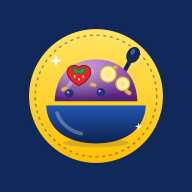
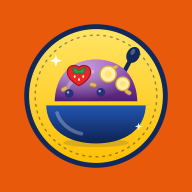
Add files via upload

diff --git a/acai.html b/acai.html
@@ -3,12 +3,12 @@
 <head>
 <meta charset="utf-8">
 <meta name="viewport" content="width=device-width, initial-scale=1, viewport-fit=cover">
-<meta name="theme-color" content="#ffd21f">
+<meta name="theme-color" content="#e8590c">
 <link rel="manifest" href="manifest-loja.webmanifest">
 <title>Monte seu açaí</title>
 <style>
-:root{--bg:#ffd21f;--card:#fff;--ink:#10295a;--mut:#46567d;--line:#10295a;--acc:#d8232a;--acci:#fff;color-scheme:light;box-sizing:border-box;padding-top:env(safe-area-inset-top,0px);padding-bottom:env(safe-area-inset-bottom,0px)}
-@media (prefers-color-scheme:dark){:root{--bg:#0d1d42;--card:#14295c;--ink:#fff3c4;--mut:#b9c3dc;--line:#3a5aa6;--acc:#ff6a5f;--acci:#1a0705;color-scheme:dark}}
+:root{--bg:#fff0e3;--card:#fff;--ink:#2e1708;--mut:#7a5236;--line:#9a3412;--acc:#d9480f;--acci:#fff;color-scheme:light;box-sizing:border-box;padding-top:env(safe-area-inset-top,0px);padding-bottom:env(safe-area-inset-bottom,0px)}
+@media (prefers-color-scheme:dark){:root{--bg:#1c0f08;--card:#2b1810;--ink:#ffe8d6;--mut:#d9b8a0;--line:#c2410c;--acc:#ff8a3d;--acci:#2a1204;color-scheme:dark}}
 *,*::before,*::after{box-sizing:inherit}
 [hidden]{display:none!important}
 body{margin:0;background:var(--bg);color:var(--ink);font:16px/1.45 system-ui,-apple-system,"Segoe UI",Roboto,sans-serif}
@@ -77,14 +77,15 @@ main{padding-bottom:110px}
 <div id="msg" role="status"></div>
 <div id="out" class="card" hidden>Entre na sua conta pela <a href="loja.html">loja</a> e volte aqui para montar o açaí.</div>
 <div id="app" hidden>
+<div id="favw" class="card" hidden></div>
 <h2>Escolha o açaí</h2>
 <div id="bases"></div>
 <div id="ingw" class="card" hidden>
 <div class="sh"><img id="shimg" alt="" hidden style="width:50px;height:50px;border-radius:12px;object-fit:cover;flex:none"><b id="shname" style="flex:1"></b><button class="x" id="shx" type="button" aria-label="Fechar">×</button></div>
 <div id="ingb"><b>Escolha os ingredientes</b><div id="ings" class="chips2"></div><b id="cth" style="display:block;margin-top:14px" hidden>Escolha a cobertura</b><div id="cobs" class="chips2"></div></div>
-<div class="shf"><button class="pri" id="addc" type="button">Adicionar ao pedido</button></div>
+<div class="shf"><label style="display:flex;align-items:center;gap:8px;font-weight:700;font-size:14px;margin-bottom:6px"><input type="checkbox" id="favck" style="width:20px;height:20px"> Salvar como meu açaí de sempre</label><button class="pri" id="addc" type="button">Adicionar ao pedido</button></div>
 </div>
-<div id="cartw" class="card" hidden><div class="sh"><b>Seu pedido</b><button class="x" id="cartx" type="button" aria-label="Fechar">×</button></div><div id="cups"></div><div style="display:flex;gap:8px;margin-top:8px"><input id="cup2" placeholder="Cupom de desconto" autocomplete="off" autocapitalize="characters" style="flex:1;min-width:0;border:2px solid var(--line);border-radius:12px;padding:11px 14px;background:var(--card);color:var(--ink);font:inherit"><button id="cupb2" class="sec" type="button" style="width:auto;margin-top:0;padding:0 16px">Aplicar</button></div><select id="ret2" style="width:100%;margin-top:8px;border:2px solid var(--line);border-radius:12px;padding:11px 14px;background:var(--card);color:var(--ink);font:inherit"><option value="">Retirada: o quanto antes</option><option value="Em 15 minutos">Em 15 minutos</option><option value="Em 30 minutos">Em 30 minutos</option><option value="Em 1 hora">Em 1 hora</option></select><input id="obs2" maxlength="140" placeholder="Observação (opcional): sem granola, calda à parte" autocomplete="off" style="width:100%;margin-top:8px;border:2px solid var(--line);border-radius:12px;padding:11px 14px;background:var(--card);color:var(--ink);font:inherit"><button class="pri" id="go"></button><div class="mut" style="margin-top:8px">O pagamento é por Pix. O código aparece logo depois de enviar o pedido.</div></div>
+<div id="cartw" class="card" hidden><div class="sh"><b>Seu pedido</b><button class="x" id="cartx" type="button" aria-label="Fechar">×</button></div><div id="cups"></div><div style="display:flex;gap:8px;margin-top:8px"><input id="cup2" placeholder="Cupom de desconto" autocomplete="off" autocapitalize="characters" style="flex:1;min-width:0;border:2px solid var(--line);border-radius:12px;padding:11px 14px;background:var(--card);color:var(--ink);font:inherit"><button id="cupb2" class="sec" type="button" style="width:auto;margin-top:0;padding:0 16px">Aplicar</button></div><select id="ret2" style="width:100%;margin-top:8px;border:2px solid var(--line);border-radius:12px;padding:11px 14px;background:var(--card);color:var(--ink);font:inherit"><option value="">Retirada: o quanto antes</option><option value="Em 15 minutos">Em 15 minutos</option><option value="Em 30 minutos">Em 30 minutos</option><option value="Em 1 hora">Em 1 hora</option><option value="agendar">Agendar para outro dia ou horário…</option></select><input id="retdt2" type="datetime-local" hidden style="width:100%;margin-top:8px;border:2px solid var(--line);border-radius:12px;padding:11px 14px;background:var(--card);color:var(--ink);font:inherit"><input id="obs2" maxlength="140" placeholder="Observação (opcional): sem granola, calda à parte" autocomplete="off" style="width:100%;margin-top:8px;border:2px solid var(--line);border-radius:12px;padding:11px 14px;background:var(--card);color:var(--ink);font:inherit"><button class="pri" id="go"></button><div class="mut" style="margin-top:8px">O pagamento é por Pix. O código aparece logo depois de enviar o pedido.</div></div>
 <h2>Pedidos em andamento</h2>
 <div id="orders"></div>
 <button class="sec" id="nt" hidden>Ativar avisos neste celular</button>
@@ -116,6 +117,10 @@ function clearStore(items){
   try{const d=parent.document,b=d.createElement('button');b.dataset.a='cm';b.hidden=true;d.body.appendChild(b);
     items.forEach(i=>{b.dataset.id=i.p;for(let k=0;k<i.q;k++)b.click()});b.remove()}catch(e){}
 }
+const retInfo=()=>{let v=$('#ret2').value,d=$('#retdt2').value;if(!v){try{v=parent.document.getElementById('ret').value;d=parent.document.getElementById('retdt').value}catch(e){}}if(v!=='agendar')return {txt:v||'',ts:0};if(!d)return {err:'Escolha o dia e a hora do agendamento.'};const t=Date.parse(d);if(!(t>Date.now()+10*60000))return {err:'Escolha um horário daqui a pelo menos 10 minutos.'};if(t>Date.now()+7*864e5)return {err:'Agende com até 7 dias de antecedência.'};return {txt:'Agendado para '+new Date(t).toLocaleString('pt-BR',{weekday:'short',day:'2-digit',month:'2-digit',hour:'2-digit',minute:'2-digit'}),ts:t}};
+const FK=()=>'fav_'+(me?me.uid:'x');
+const getFav=()=>{try{return JSON.parse(localStorage.getItem(FK())||'null')}catch(e){return null}};
+const setFav=f=>{try{f?localStorage.setItem(FK(),JSON.stringify(f)):localStorage.removeItem(FK())}catch(e){}};
 const cupDesc=t=>{try{const c=parent.__cupom;if(!c)return 0;return Math.min(t,Math.round((c.pct?t*c.pct/100:c.val)*100)/100)}catch(e){return 0}};
 const cupCode=d=>{try{return d>0&&parent.__cupom?parent.__cupom.code:''}catch(e){return ''}};
 function goPed(){try{const t=parent.document.querySelector('#tabs button[data-v="ped"]');if(t)t.click()}catch(e){}}
@@ -142,11 +147,15 @@ function pixCode(o){
 }
 const hm=()=>{const p=new Intl.DateTimeFormat('en-GB',{timeZone:'America/Sao_Paulo',hour:'2-digit',minute:'2-digit',hour12:false}).formatToParts(new Date()),g=t=>+p.find(x=>x.type===t).value;return (g('hour')%24)*60+g('minute')};
 const mins=s=>{const [h,m]=String(s||'0:0').split(':');return +h*60+(+m||0)};
-const aberta=c=>{if(c.open===false)return false;if(!c.auto)return true;const n=hm(),a=mins(c.from||'07:00'),f=mins(c.to||'23:00');return a<=f?(n>=a&&n<f):(n>=a||n<f)};
+const aberta=c=>{if(c.open===false)return false;try{if((parent.__lotado||0)>Date.now())return false}catch(e){}if(!c.auto)return true;const n=hm(),a=mins(c.from||'07:00'),f=mins(c.to||'23:00');return a<=f?(n>=a&&n<f):(n>=a||n<f)};
 const ntfy=(t,m)=>{if(cfg.ntfy)fetch('https://ntfy.sh/'+encodeURIComponent(cfg.ntfy)+'/publish?title='+encodeURIComponent(t)+'&priority=high&tags=shopping_cart&message='+encodeURIComponent(m),{mode:'no-cors'}).catch(()=>{})};
 function render(){
   const B=bases(),I=ings(),C=cobs();
   $('#bases').innerHTML=B.length?B.map(p=>`<button class="base" data-b="${p.id}" aria-pressed="${base===p.id}"${p.qty<=0?' disabled':''}>${p.img?`<img class="bi" src="${p.img}" alt="">`:`<span class="bi ph">${esc(p.name.slice(0,1).toUpperCase())}</span>`}<span>${esc(p.name)}</span><span>${p.qty<=0?'Esgotado':R(p.price)}</span></button>`).join(''):'<p class="mut">Os açaís ainda não foram cadastrados na loja.</p>';
+  {const f=getFav(),w=$('#favw');
+    if(f&&P(f.b)){const nomes=f.i.map(id=>P(id)?P(id).name:null).filter(Boolean);w.hidden=false;
+      w.innerHTML=`<div class="mut">Meu açaí de sempre</div><b>${esc(P(f.b).name)}</b><div class="mut">${nomes.length?nomes.map(esc).join(', '):'Sem ingredientes'}</div><div style="display:flex;gap:8px;margin-top:10px"><button class="pri" id="favadd" type="button" style="flex:1;margin-top:0">Pedir agora · ${R(cupTot({b:f.b,i:f.i.filter(id=>P(id))}))}</button><button class="sec" id="favrm" type="button" style="width:auto;margin-top:0;padding:0 16px">Remover</button></div>`}
+    else w.hidden=true}
   $('#ingw').hidden=!base;if(base&&P(base)){$('#shname').textContent=P(base).name+' · '+R(P(base).price);{const im=$('#shimg');if(P(base).img){im.src=P(base).img;im.hidden=false}else{im.hidden=true}}$('#addc').textContent='Adicionar ao pedido · '+R(cupTot({b:base,i:[...pick]}))}
   const opt=p=>`<label class="chip${pick.has(p.id)?' on':''}${p.qty<=0?' off':''}${p.img?' hasimg':''}">${p.img?`<img class="ci" src="${p.img}" alt="">`:''}<input type="checkbox" data-i="${p.id}"${pick.has(p.id)?' checked':''}${p.qty<=0?' disabled':''}><span>${esc(p.name)}</span><span class="mut">${p.qty<=0?'Esgotado':p.price>0?'Mais '+R(p.price):'Sem custo'}</span></label>`;
   $('#ings').innerHTML=I.map(opt).join('')||'<p class="mut">Nenhum ingrediente cadastrado ainda.</p>';
@@ -179,11 +188,13 @@ async function order(fromParent){
   cups.forEach((c,k)=>{const s=multi?' (copo '+(k+1)+')':'',b=P(c.b);items.push({p:b.id,n:b.name+s,q:1,pr:b.price});c.i.forEach(id=>{const g=P(id);items.push({p:id,n:'+ '+g.name+s,q:1,pr:g.price})})});
   store.forEach(i=>items.push(i));
   const total0=Math.round(items.reduce((s,i)=>s+i.pr*i.q,0)*100)/100,dsc=cupDesc(total0),total=Math.round((total0-dsc)*100)/100,cp=cupCode(dsc);
-  const code=String(100+crypto.getRandomValues(new Uint32Array(1))[0]%900),obs=(($('#obs2').value||'').trim()||(()=>{try{return parent.document.getElementById('obs').value.trim()}catch(e){return ''}})()).slice(0,140),ret=$('#ret2').value||(()=>{try{return parent.document.getElementById('ret').value}catch(e){return ''}})();
-  const ref=await addDoc(collection(db,'orders'),{uid:me.uid,name,items,total,pay:'pix',st:'novo',paid:false,code,obs,ret,cupom:cp,desc:dsc,t:Date.now()});
+  const code=String(100+crypto.getRandomValues(new Uint32Array(1))[0]%900),obs=(($('#obs2').value||'').trim()||(()=>{try{return parent.document.getElementById('obs').value.trim()}catch(e){return ''}})()).slice(0,140),ri=retInfo();
+  if(ri.err){msg(ri.err);return}
+  const ret=ri.txt;
+  const ref=await addDoc(collection(db,'orders'),{uid:me.uid,name,items,total,pay:'pix',st:'novo',paid:false,code,obs,ret,agenda:ri.ts,cupom:cp,desc:dsc,t:Date.now()});
   ntfy('Novo pedido de açaí','O cliente '+name+' fez um pedido de '+R(total)+'. Abra o app para ver.');
   let ok=false;try{await navigator.clipboard.writeText(pixCode({id:ref.id,total}));ok=true}catch(e){}
-  cups=[];base=null;pick=new Set();clearStore(store);$('#obs2').value='';$('#ret2').value='';$('#cup2').value='';try{parent.document.getElementById('obs').value='';parent.document.getElementById('ret').value='';parent.document.getElementById('cupom').value='';parent.__cupom=null}catch(e){}render();if(fromParent)goPed();
+  cups=[];base=null;pick=new Set();clearStore(store);$('#obs2').value='';$('#ret2').value='';$('#retdt2').value='';$('#retdt2').hidden=true;$('#cup2').value='';try{parent.document.getElementById('obs').value='';parent.document.getElementById('ret').value='';parent.document.getElementById('retdt').value='';parent.document.getElementById('retdt').hidden=true;parent.document.getElementById('cupom').value='';parent.__cupom=null}catch(e){}render();if(fromParent)goPed();
   msg((ok?'Pedido enviado! Código Pix copiado: cole no app do banco. ':'Pedido enviado! Copie o código Pix abaixo. ')+'Seu código de retirada: '+code+'. Guarde-o.');
 }
 document.addEventListener('click',async e=>{
@@ -195,8 +206,17 @@ document.addEventListener('click',async e=>{
       storeItems().forEach(i=>u[i.p]=(u[i.p]||0)+i.q);
       const bad=Object.keys(u).find(id=>!P(id)||u[id]>P(id).qty);
       if(bad){msg('Sem estoque suficiente de '+(P(bad)?P(bad).name:'um item')+'.');return}
-      cups.push(c);base=null;pick=new Set();render();msg('Açaí adicionado ao pedido.')}
+      const sv=$('#favck').checked;cups.push(c);if(sv)setFav({b:c.b,i:c.i});$('#favck').checked=false;base=null;pick=new Set();render();msg('Açaí adicionado ao pedido.'+(sv?' Salvo como meu açaí de sempre.':''))}
     else if(b.dataset.r){cups.splice(+b.dataset.r,1);render()}
+    else if(b.id==='favadd'){
+      const f=getFav();if(!f)return;
+      if(!P(f.b)||P(f.b).qty<=0){msg('Esse açaí não está disponível agora.');return}
+      const ing=f.i.filter(id=>P(id)&&P(id).qty>0),lost=f.i.length-ing.length,c={b:f.b,i:ing},u={};
+      [...cups,c].forEach(x=>[x.b,...x.i].forEach(id=>u[id]=(u[id]||0)+1));storeItems().forEach(i=>u[i.p]=(u[i.p]||0)+i.q);
+      const bad=Object.keys(u).find(id=>!P(id)||u[id]>P(id).qty);
+      if(bad){msg('Sem estoque suficiente de '+(P(bad)?P(bad).name:'um item')+'.');return}
+      cups.push(c);render();msg('Açaí adicionado ao pedido.'+(lost?' '+lost+(lost==1?' item sem estoque ficou de fora.':' itens sem estoque ficaram de fora.'):''))}
+    else if(b.id==='favrm'){setFav(null);render();msg('Favorito removido.')}
     else if(b.id==='shx'){base=null;pick=new Set();render()}
     else if(b.id==='cartx'){cartOpen=false;render()}
     else if(b.id==='bar2'){cartOpen=true;render()}
@@ -226,6 +246,7 @@ onAuthStateChanged(auth,async u=>{
 });
 if('serviceWorker' in navigator)addEventListener('load',()=>navigator.serviceWorker.register('sw.js').catch(()=>{}));
 document.addEventListener('click',e=>{if(e.target.id==='scrim'){base=null;pick=new Set();cartOpen=false;render()}});
+document.addEventListener('change',e=>{if(e.target.id==='ret2'){const d=$('#retdt2');d.hidden=e.target.value!=='agendar';const m=new Date(Date.now()+10*60000-new Date().getTimezoneOffset()*60000);d.min=m.toISOString().slice(0,16)}});
 window.acaiCupsCount=()=>cups.length;
 window.acaiInfo=()=>({n:cups.length,total:cups.reduce((s,c)=>s+cupTot(c),0)});
 window.acaiOrder=()=>order(true).catch(erro);

diff --git a/loja.html b/loja.html
@@ -3,7 +3,7 @@
 <head>
 <meta charset="utf-8">
 <meta name="viewport" content="width=device-width, initial-scale=1, viewport-fit=cover">
-<meta name="theme-color" content="#ffd21f">
+<meta name="theme-color" content="#e8590c">
 <meta name="mobile-web-app-capable" content="yes">
 <meta name="apple-mobile-web-app-capable" content="yes">
 <link rel="manifest" href="manifest-loja.webmanifest">
@@ -13,8 +13,8 @@
 <title>Loja Andrea</title>
 <script src="acai-tab.js" defer></script>
 <style>
-:root{--bg:#ffd21f;--card:#fff;--ink:#10295a;--mut:#46567d;--line:#10295a;--btn:#10295a;--btni:#fff;--acc:#d8232a;--acci:#fff;--ok:#1b7a4a;--wn:#b3201f;--soft:#fff2b0;color-scheme:light;box-sizing:border-box;padding-top:env(safe-area-inset-top,0px);padding-bottom:env(safe-area-inset-bottom,0px)}
-@media (prefers-color-scheme:dark){:root{--bg:#0d1d42;--card:#14295c;--ink:#fff3c4;--mut:#b9c3dc;--line:#3a5aa6;--btn:#ffd21f;--btni:#10295a;--acc:#ff6a5f;--acci:#1a0705;--ok:#5fd39a;--wn:#ff8a7e;--soft:#1d3877;color-scheme:dark}}
+:root{--bg:#fff0e3;--card:#fff;--ink:#2e1708;--mut:#7a5236;--line:#9a3412;--btn:#9a3412;--btni:#fff;--acc:#d9480f;--acci:#fff;--ok:#1b7a4a;--wn:#b3201f;--soft:#ffe0c2;color-scheme:light;box-sizing:border-box;padding-top:env(safe-area-inset-top,0px);padding-bottom:env(safe-area-inset-bottom,0px)}
+@media (prefers-color-scheme:dark){:root{--bg:#1c0f08;--card:#2b1810;--ink:#ffe8d6;--mut:#d9b8a0;--line:#c2410c;--btn:#ff922b;--btni:#2a1204;--acc:#ff8a3d;--acci:#2a1204;--ok:#5fd39a;--wn:#ff8a7e;--soft:#3a2012;color-scheme:dark}}
 *,*::before,*::after{box-sizing:inherit}
 [hidden]{display:none!important}
 body{margin:0;background:var(--bg);color:var(--ink);font:16px/1.45 Figtree,system-ui,-apple-system,"Segoe UI",Roboto,sans-serif}
@@ -117,6 +117,14 @@ h1{font-size:28px}.sub{font-size:13px;margin-top:4px}
 .codigo{display:flex;flex-direction:column;align-items:center;gap:2px;margin:8px 0;padding:10px;border:2px dashed var(--line);border-radius:12px;background:var(--soft)}
 .codigo b{font:400 40px/1 "Alfa Slab One",serif;letter-spacing:6px;color:var(--ink)}
 .codigo span,.codigo small{font-size:12px;font-weight:800;color:var(--mut)}
+/* tema laranja */
+header{max-width:none;margin:0;padding-top:14px;padding-bottom:20px;padding-left:max(12px,calc((100vw - 960px)/2 + 12px));padding-right:max(12px,calc((100vw - 960px)/2 + 12px));background:linear-gradient(135deg,#e8590c,#f76707);border-radius:0 0 28px 28px;box-shadow:0 10px 28px rgba(154,52,18,.28)}
+header h1,header .sub{color:#fff}
+header #who{color:#ffe8d6}
+header .lnk{color:#fff}
+main{padding-top:14px}
+.caderno{border-left-color:var(--acc)}.caderno .big{color:var(--acc)}
+@media (prefers-color-scheme:dark){header{background:linear-gradient(135deg,#a3380a,#c2410c)}}
 </style>
 </head>
 <body>
@@ -148,7 +156,8 @@ h1{font-size:28px}.sub{font-size:13px;margin-top:4px}
 <div id="scrim" data-a="sheet" hidden></div>
 <div id="cart" role="dialog" aria-label="Seu pedido"><div class="sh"><span>Seu pedido</span><button class="x" data-a="sheet" aria-label="Fechar">×</button></div><div id="citems"></div>
 <label>Observação (opcional)<input id="obs" maxlength="140" placeholder="Ex.: sem granola, calda à parte" autocomplete="off"></label>
-<label>Retirada<select id="ret"><option value="">O quanto antes</option><option value="Em 15 minutos">Em 15 minutos</option><option value="Em 30 minutos">Em 30 minutos</option><option value="Em 1 hora">Em 1 hora</option></select></label>
+<label>Retirada<select id="ret"><option value="">O quanto antes</option><option value="Em 15 minutos">Em 15 minutos</option><option value="Em 30 minutos">Em 30 minutos</option><option value="Em 1 hora">Em 1 hora</option><option value="agendar">Agendar para outro dia ou horário…</option></select></label>
+<input id="retdt" type="datetime-local" hidden>
 <label>Pagamento<select id="pay"><option value="pix">Pix</option><option value="din">Dinheiro na retirada</option><option value="car">Cartão na retirada</option><option value="fia" id="ofia">Fiado</option></select></label>
 <input id="trocopara" inputmode="decimal" placeholder="Troco para quanto? (opcional)" autocomplete="off" hidden>
 <div class="mut" id="pixnote">Depois de enviar o pedido, o código Pix aparece em Meus pedidos.</div>
@@ -165,6 +174,7 @@ const esc=s=>String(s).replace(/[&<>"]/g,c=>({'&':'&amp;','<':'&lt;','>':'&gt;',
 const ST={novo:'Aguardando a loja',sep:'Separado para você',pronto:'Pronto para retirar',ent:'Entregue',canc:'Cancelado'};
 let me=null,cust={},cfg={},prods=[],orders=[],cart={},unsubs=[],healing=false,ip=null,catF='',sheet=false,tab='loja',loaded=false,view=(()=>{try{return localStorage.getItem('lv')||'grade'}catch(e){return 'grade'}})();
 const P=id=>prods.find(p=>p.id===id);
+const retInfo=()=>{const v=$('#ret').value,d=$('#retdt').value;if(v!=='agendar')return {txt:v,ts:0};if(!d)return {err:'Escolha o dia e a hora do agendamento.'};const t=Date.parse(d);if(!(t>Date.now()+10*60000))return {err:'Escolha um horário daqui a pelo menos 10 minutos.'};if(t>Date.now()+7*864e5)return {err:'Agende com até 7 dias de antecedência.'};return {txt:'Agendado para '+new Date(t).toLocaleString('pt-BR',{weekday:'short',day:'2-digit',month:'2-digit',hour:'2-digit',minute:'2-digit'}),ts:t}};
 const desc=t=>{const c=window.__cupom;if(!c)return 0;return Math.min(t,Math.round((c.pct?t*c.pct/100:c.val)*100)/100)};
 function msg(t){const m=$('#msg');m.textContent=t;clearTimeout(msg.t);msg.t=setTimeout(()=>m.textContent='',6000)}
 const erro=e=>msg(({'auth/invalid-credential':'E-mail ou senha incorretos.','auth/email-already-in-use':'Esse e-mail já tem conta. Toque em Entrar.','auth/weak-password':'A senha precisa ter 6 ou mais caracteres.','auth/configuration-not-found':'O login por e-mail ainda não foi ativado no Firebase.','auth/operation-not-allowed':'O login por e-mail e senha não está ativado no Firebase.','auth/network-request-failed':'Sem conexão com a internet.','auth/too-many-requests':'Muitas tentativas. Espere um pouco e tente de novo.','auth/invalid-email':'E-mail inválido.','permission-denied':'Sem permissão para essa ação.'})[e.code]||'Erro: '+(e.code||e.message));
@@ -188,7 +198,7 @@ function pixCode(o){
 }
 const hm=()=>{const p=new Intl.DateTimeFormat('en-GB',{timeZone:'America/Sao_Paulo',hour:'2-digit',minute:'2-digit',hour12:false}).formatToParts(new Date()),g=t=>+p.find(x=>x.type===t).value;return (g('hour')%24)*60+g('minute')};
 const mins=s=>{const [h,m]=String(s||'0:0').split(':');return +h*60+(+m||0)};
-const aberta=c=>{if(c.open===false)return false;if(!c.auto)return true;const n=hm(),a=mins(c.from||'07:00'),f=mins(c.to||'23:00');return a<=f?(n>=a&&n<f):(n>=a||n<f)};
+const aberta=c=>{if(c.open===false)return false;if((window.__lotado||0)>Date.now())return false;if(!c.auto)return true;const n=hm(),a=mins(c.from||'07:00'),f=mins(c.to||'23:00');return a<=f?(n>=a&&n<f):(n>=a||n<f)};
 const PR=v=>{const [i,c]=(+v||0).toFixed(2).split('.');return `<span class="price" aria-label="${R(v)}"><span class="rs">R$</span><span class="pi">${(+i).toLocaleString('pt-BR')}</span><span class="pc">,${c}</span></span>`};
 function ocard(o){
   const pix=o.pay==='pix'&&!o.paid&&o.st!=='canc';
@@ -203,7 +213,7 @@ function render(){
   const cs=[...new Set(prods.map(p=>p.cat).filter(Boolean))].sort((a,b)=>a.localeCompare(b,'pt-BR'));if(catF&&!cs.includes(catF))catF='';
   $('#cats').innerHTML=cs.length?['',...cs].map(c=>`<button data-a="cat" data-v="${esc(c)}" aria-pressed="${c===catF}">${c?esc(c):'Todas'}</button>`).join(''):'';
   $('#pixnote').hidden=$('#pay').value!=='pix';
-  const cl=$('#closed');cl.hidden=open;if(!open)cl.textContent=cfg.open===false?'A loja não está recebendo pedidos agora. Volte mais tarde.':'Estamos fechados agora. Abrimos às '+(cfg.from||'07:00')+'.';
+  const cl=$('#closed');cl.hidden=open;if(!open)cl.textContent=(window.__lotado||0)>Date.now()?'Muitos pedidos no momento! Voltamos a receber pedidos às '+new Date(window.__lotado).toLocaleTimeString('pt-BR',{hour:'2-digit',minute:'2-digit'})+'.':cfg.open===false?'A loja não está recebendo pedidos agora. Volte mais tarde.':'Estamos fechados agora. Abrimos às '+(cfg.from||'07:00')+'.';
   const f=$('#busca').value.trim().toLowerCase(),ids=Object.keys(cart).filter(P),tot=ids.reduce((s,id)=>s+P(id).price*cart[id],0);
   $('#grid').innerHTML=!loaded?'<div class="sk"></div>'.repeat(4):(prods.filter(p=>p.name.toLowerCase().includes(f)&&(!catF||p.cat===catF)).sort((a,b)=>a.name.localeCompare(b.name,'pt-BR')).map(p=>{const c=cart[p.id]||0;
     return `<div class="tile${p.qty<=0?' out':''}">${p.img?`<img class="timg" src="${p.img}" alt="${esc(p.name)}">`:`<div class="timg ph">${esc(p.name.slice(0,1).toUpperCase())}</div>`}<div class="info"><span class="nm">${esc(p.name)}</span>${PR(p.price)}${p.qty<=3?`<span class="st low">${p.qty<=0?'Esgotado':'Últimas '+p.qty}</span>`:''}</div><div class="act">${!open?'<button class="addb" disabled>Fechado agora</button>':p.qty<=0?'<button class="addb" disabled>Esgotado</button>':c?`<div class="stp"><button data-a="cm" data-id="${p.id}" aria-label="Tirar 1">−</button><b>${c}</b><button data-a="add" data-id="${p.id}" aria-label="Pôr 1">+</button></div>`:`<button class="addb" data-a="add" data-id="${p.id}">Adicionar</button>`}</div></div>`}).join('')||`<p class="mut em">${prods.length?'Nenhum produto encontrado. Tente outro nome ou categoria.':'A loja ainda não publicou produtos. Volte daqui a pouco.'}</p>`);
@@ -221,11 +231,12 @@ function render(){
 async function order(){
   if(!aberta(cfg)){msg('A loja está fechada agora.');return}
   const ids=Object.keys(cart).filter(P);if(!ids.length)return;
+  const ri=retInfo();if(ri.err){msg(ri.err);return}
   const code=String(100+crypto.getRandomValues(new Uint32Array(1))[0]%900);
   const items=ids.map(id=>({p:id,n:P(id).name,q:cart[id],pr:P(id).price})),total0=Math.round(items.reduce((s,i)=>s+i.pr*i.q,0)*100)/100,dsc=desc(total0),total=Math.round((total0-dsc)*100)/100,pay=$('#pay').value;
   if(pay==='fia'&&(cust.balance||0)+total>(cust.limit||0)){msg('Esse pedido passa do seu limite de fiado.');return}
-  const ref=await addDoc(collection(db,'orders'),{uid:me.uid,name:cust.name||me.displayName||'Cliente',items,total,pay,st:'novo',paid:false,code,obs:($('#obs').value||'').trim().slice(0,140),ret:$('#ret').value,troco:pay==='din'?(parseFloat(String($('#trocopara').value).replace(',','.'))||0):0,cupom:dsc>0&&window.__cupom?window.__cupom.code:'',desc:dsc,t:Date.now()});
-  cart={};sheet=false;$('#obs').value='';$('#ret').value='';$('#trocopara').value='';window.__cupom=null;{const ci=document.getElementById('cupom');if(ci)ci.value=''}render();let ok=false;
+  const ref=await addDoc(collection(db,'orders'),{uid:me.uid,name:cust.name||me.displayName||'Cliente',items,total,pay,st:'novo',paid:false,code,obs:($('#obs').value||'').trim().slice(0,140),ret:ri.txt,agenda:ri.ts,troco:pay==='din'?(parseFloat(String($('#trocopara').value).replace(',','.'))||0):0,cupom:dsc>0&&window.__cupom?window.__cupom.code:'',desc:dsc,t:Date.now()});
+  cart={};sheet=false;$('#obs').value='';$('#ret').value='';$('#retdt').value='';$('#retdt').hidden=true;$('#trocopara').value='';window.__cupom=null;{const ci=document.getElementById('cupom');if(ci)ci.value=''}render();let ok=false;
   if(cfg.ntfy)fetch('https://ntfy.sh/'+encodeURIComponent(cfg.ntfy)+'/publish?title='+encodeURIComponent('Novo pedido')+'&priority=high&tags=shopping_cart&message='+encodeURIComponent(items.reduce((s,i)=>s+i.q,0)+' item(ns), '+R(total)+'. Abra o app para ver.'),{mode:'no-cors'}).catch(()=>{});
   if(pay==='pix'&&cfg.pix){try{await navigator.clipboard.writeText(pixCode({id:ref.id,total}));ok=true}catch(e){}}
   msg((ok?'Pedido enviado! Código Pix copiado: cole no app do seu banco. ':'Pedido enviado! ')+'Seu código de retirada: '+code+'. Guarde-o.');

diff --git a/acai-tab.js b/acai-tab.js
@@ -103,7 +103,10 @@ var prep=0,pbox=null,pn=null;
     var t=document.querySelector('#tabs button[data-v="loja"]');if(t)t.click();
     var bar=document.getElementById('bar');if(bar&&!bar.hidden)bar.click();
   });
-  document.addEventListener('change',function(e){if(e.target.id==='pay'){var t=document.getElementById('trocopara');if(t)t.hidden=e.target.value!=='din'}});
+  document.addEventListener('change',function(e){
+    if(e.target.id==='pay'){var t=document.getElementById('trocopara');if(t)t.hidden=e.target.value!=='din'}
+    if(e.target.id==='ret'){var d=document.getElementById('retdt');if(d){d.hidden=e.target.value!=='agendar';var m=new Date(Date.now()+10*60000-new Date().getTimezoneOffset()*60000);d.min=m.toISOString().slice(0,16)}}
+  });
   if(list)new MutationObserver(function(){addBtns();again()}).observe(list,{childList:true});
   document.addEventListener('click',function(e){
     var b=e.target.closest('[data-ja]');if(!b)return;
@@ -323,10 +326,11 @@ window.__fb=window.__fb||(async function(){
   var mins=function(s){var a=String(s||'0:0').split(':');return +a[0]*60+(+a[1]||0)};
   var aberta=function(c){if(c.open===false)return false;if(!c.auto)return true;var n=hm(),a=mins(c.from||'07:00'),f=mins(c.to||'23:00');return a<=f?(n>=a&&n<f):(n>=a||n<f)};
   function pintar(){
+    if((window.__lotado||0)>Date.now()){pill.style.background='#b45309';pill.textContent='Muitos pedidos agora, voltamos às '+new Date(window.__lotado).toLocaleTimeString('pt-BR',{hour:'2-digit',minute:'2-digit'});return}
     var ok=aberta(cfg);pill.style.background=ok?'#1b7a4a':'#b3201f';
     pill.textContent=ok?'Aberta agora'+(cfg.auto&&cfg.to?', até '+cfg.to:''):(cfg.open===false?'Fechada no momento':'Fechada agora'+(cfg.from?', abrimos às '+cfg.from:''));
   }
-  setInterval(pintar,60000);
+  setInterval(pintar,60000);window.__pintarAberta=pintar;
   window.__fb.then(function(x){
     if(!x)return;
     x.Au.onAuthStateChanged(x.auth,function(u){
@@ -418,4 +422,23 @@ window.__fb=window.__fb||(async function(){
     setTimeout(function(){var y=tabs.getBoundingClientRect().top+window.pageYOffset;window.scrollTo({top:Math.max(0,y-6),behavior:'smooth'})},90);
   }).observe(sec,{attributes:true,attributeFilter:['hidden']});
   addEventListener('resize',ajustar);
+})();
+
+
+/* Modo lotado: pausa dos pedidos definida pelo dono */
+(function(){
+  var un=null;
+  function atualizar(){
+    var p=document.getElementById('pay');if(p)p.dispatchEvent(new Event('change',{bubbles:true}));
+    if(window.__pintarAberta)window.__pintarAberta();
+  }
+  window.__fb.then(function(x){
+    if(!x)return;
+    x.Au.onAuthStateChanged(x.auth,function(u){
+      if(un){un();un=null}window.__lotado=0;
+      if(!u)return;
+      un=x.F.onSnapshot(x.F.doc(x.db,'config','lotado'),function(s){window.__lotado=+((s.data()||{}).ate)||0;atualizar()},function(){});
+    });
+  });
+  setInterval(function(){if(window.__lotado&&window.__lotado<=Date.now()){window.__lotado=0;atualizar()}},15000);
 })();

diff --git a/painel-alerta.js b/painel-alerta.js
@@ -466,3 +466,36 @@ window.__fb=window.__fb||(async function(){
     });
   });
 })();
+
+
+/* Modo lotado: o dono pausa os novos pedidos por um tempo */
+(function(){
+  var ol=document.getElementById('ologged');if(!ol)return;
+  var c=document.createElement('div');c.className='card';
+  c.innerHTML='<b>Modo lotado</b><div class="mut" id="lotst" style="margin:4px 0 10px">Recebendo pedidos normalmente.</div><div style="display:grid;grid-template-columns:repeat(3,1fr);gap:8px"><button class="sec" type="button" data-min="15">Pausar 15 min</button><button class="sec" type="button" data-min="30">Pausar 30 min</button><button class="sec" type="button" data-min="60">Pausar 1 hora</button></div><button class="pri" id="lotoff" type="button" style="margin-top:8px;width:100%" hidden>Voltar a receber pedidos</button>';
+  var pm=document.getElementById('prepmin'),anc=pm&&pm.parentNode;
+  if(anc)anc.after(c);else ol.insertBefore(c,ol.firstChild);
+  var ate=0,ctx=null,un=null;
+  function say(m){var e=document.getElementById('msg');if(!e)return;e.textContent=m;clearTimeout(say.t);say.t=setTimeout(function(){e.textContent=''},4000)}
+  function pintar(){
+    var on=ate>Date.now();
+    document.getElementById('lotst').textContent=on?'Pausado até '+new Date(ate).toLocaleTimeString('pt-BR',{hour:'2-digit',minute:'2-digit'})+'. Os clientes veem "Muitos pedidos no momento".':'Recebendo pedidos normalmente.';
+    document.getElementById('lotoff').hidden=!on;
+  }
+  c.addEventListener('click',async function(e){
+    var b=e.target.closest('button');if(!b)return;
+    if(!ctx){say('Entre na conta da loja online primeiro (aba Pedidos).');return}
+    var v=b.id==='lotoff'?0:Date.now()+(+b.dataset.min)*60000;
+    try{await ctx.F.setDoc(ctx.F.doc(ctx.db,'config','lotado'),{ate:v});say(v?'Novos pedidos pausados.':'Pedidos liberados.')}
+    catch(er){say('Não consegui salvar o modo lotado.')}
+  });
+  setInterval(pintar,20000);
+  window.__fb.then(function(x){
+    if(!x)return;ctx=x;
+    x.Au.onAuthStateChanged(x.auth,function(u){
+      if(un){un();un=null}ate=0;pintar();
+      if(!u)return;
+      un=x.F.onSnapshot(x.F.doc(x.db,'config','lotado'),function(s){ate=+((s.data()||{}).ate)||0;pintar()},function(){});
+    });
+  });
+})();

diff --git a/qrcode.html b/qrcode.html
@@ -5,7 +5,7 @@
 <meta name="viewport" content="width=device-width, initial-scale=1">
 <title>QR Code da loja</title>
 <style>
-:root{--ink:#10295a;--bg:#ffd21f;--acc:#d8232a;box-sizing:border-box}
+:root{--ink:#2e1708;--bg:#e8590c;--acc:#9a3412;box-sizing:border-box}
 *,*::before,*::after{box-sizing:inherit}
 body{margin:0;min-height:100vh;display:flex;align-items:center;justify-content:center;background:var(--bg);color:var(--ink);font:16px/1.4 system-ui,-apple-system,"Segoe UI",Roboto,sans-serif;padding:20px}
 .poster{background:#fff;border:3px solid var(--ink);border-radius:24px;padding:28px 24px;max-width:380px;width:100%;text-align:center;box-shadow:0 14px 34px rgba(16,41,90,.25)}
@@ -32,7 +32,7 @@ button{margin-top:18px;width:100%;border:0;border-radius:14px;padding:13px;backg
 <script>
 var link=location.href.replace(/[#?].*$/,'').replace(/[^/]*$/,'')+'loja.html';
 document.getElementById('url').textContent=link;
-try{new QRCode(document.getElementById('qr'),{text:link,width:240,height:240,colorDark:'#10295a',colorLight:'#ffffff',correctLevel:QRCode.CorrectLevel.M})}
+try{new QRCode(document.getElementById('qr'),{text:link,width:240,height:240,colorDark:'#2e1708',colorLight:'#ffffff',correctLevel:QRCode.CorrectLevel.M})}
 catch(e){document.getElementById('qr').textContent='Não consegui gerar o QR Code. Confira a internet e abra de novo.'}
 </script>
 </body>
